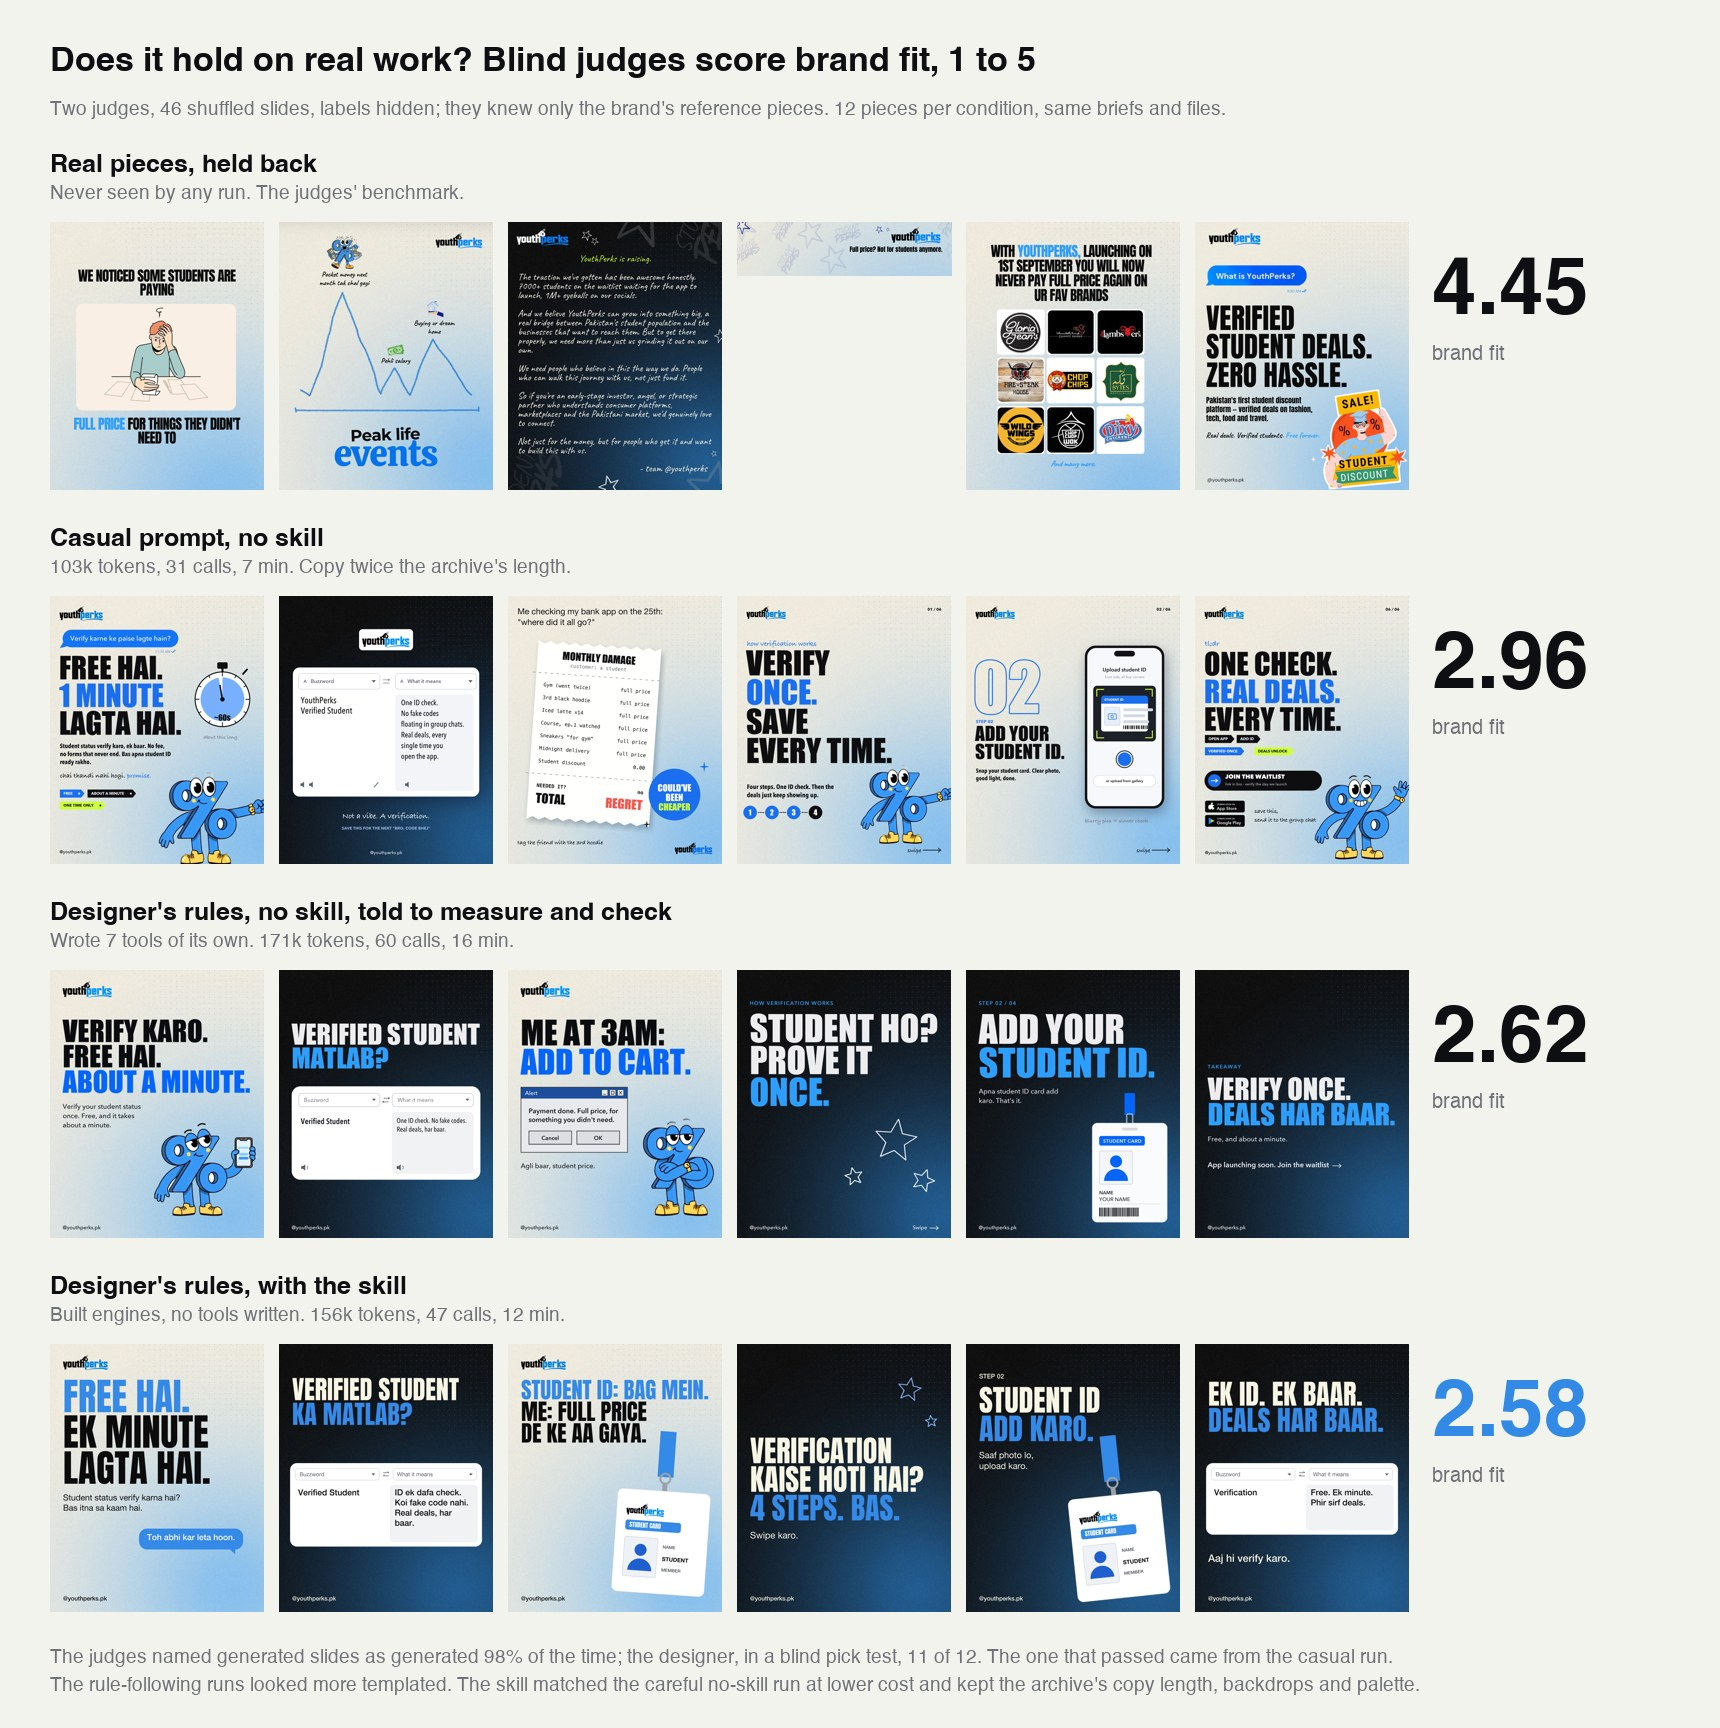
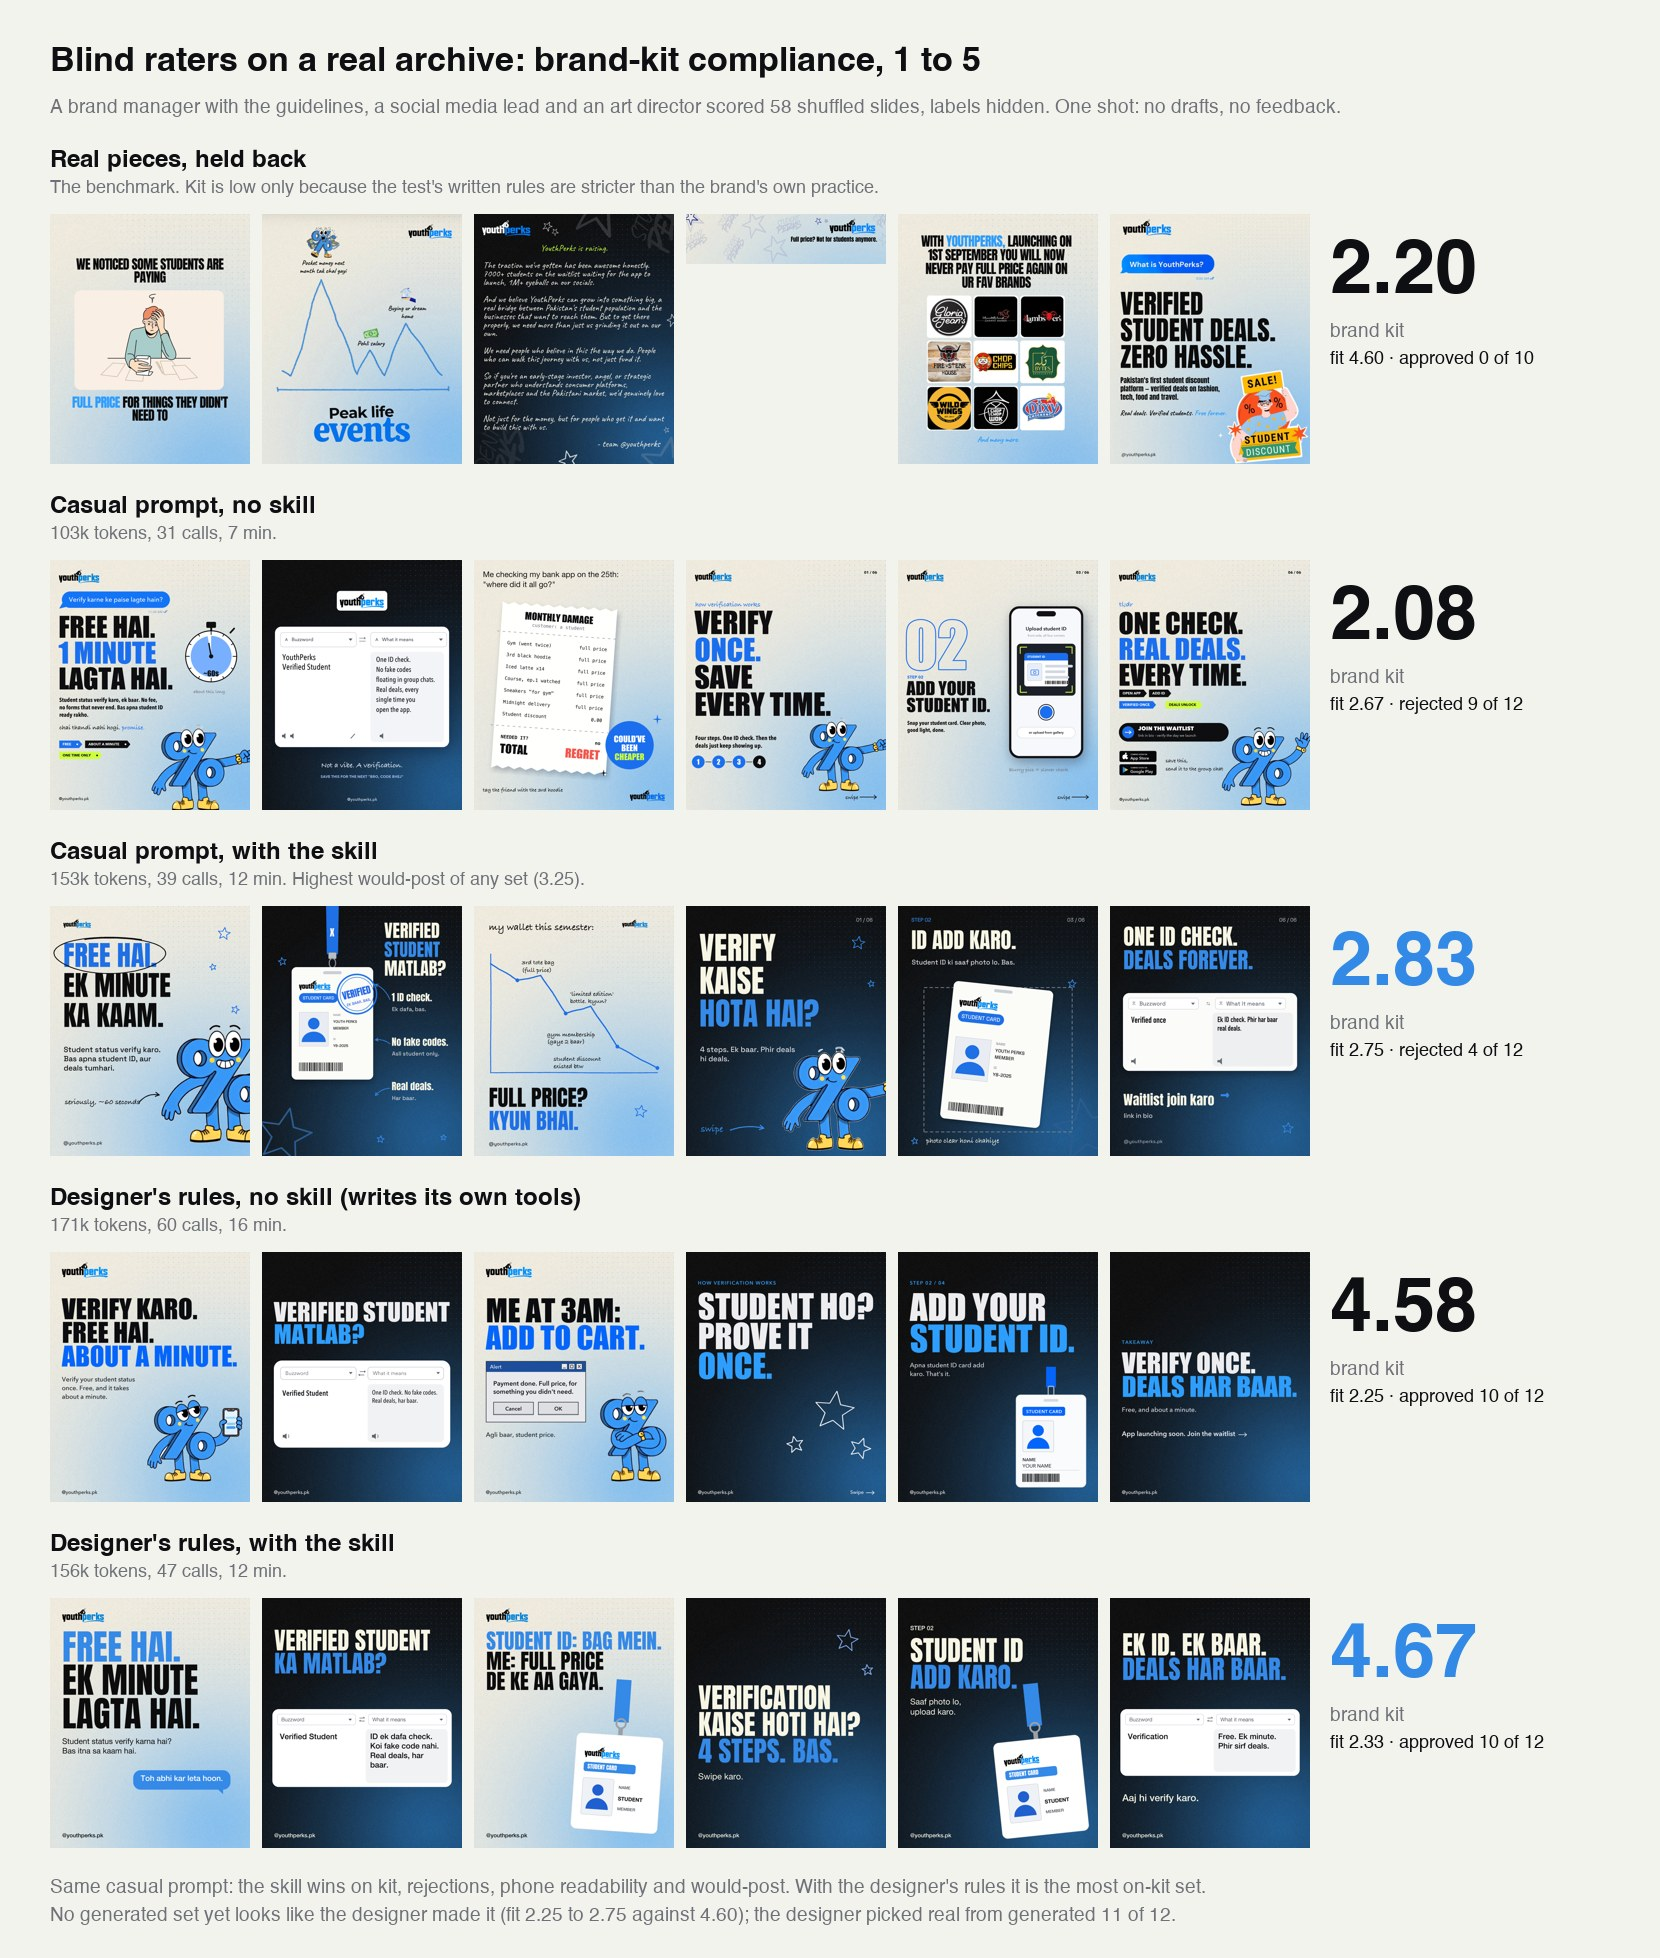
Real-world blind raters (brand manager with guidelines, social lead, art director); one-shot caveat; card updated
Same casual prompt: the skill beats no skill on brand kit (2.83 vs 2.08), rejections (4 vs 9), phone (3.58 vs 3.00) and
would-post (3.25, highest). With the designer's rules it is the most on-kit set (4.67, 10 of 12 approved). No set yet looks
like the designer made it. All runs were one shot, with no designer feedback.

diff --git a/README.md b/README.md
@@ -9,7 +9,7 @@
 
 <table>
 <tr>
-<td align="center" width="33%"><b>9 to 42% fewer tokens</b><br><sub>than an agent that builds its own tools for the same measuring and checking, across four rounds. On how the work looks, blind judges have not yet put it ahead of a good run without it.</sub></td>
+<td align="center" width="33%"><b>10 of 12 approved as is</b><br><sub>by a blind brand manager with the guidelines in hand (brand-kit 4.67 of 5), with 9 to 42% fewer tokens than an agent building its own tools for the same checks. It does not yet look like the designer made it.</sub></td>
 <td align="center" width="33%"><b>0.95</b><br><sub>of the real pieces held back follow the habits it measured from 28 others: the 4:5 canvas, the light and dark grounds, the one accent. Nobody told it.</sub></td>
 <td align="center" width="33%"><b>2.1k tokens</b><br><sub>to carry the whole skill. A kit loads only when the job needs it; pasted as text it would be 121k. Engines return a 0.4k report where looking at the pieces costs 58k.</sub></td>
 </tr>
@@ -73,22 +73,27 @@ Every card is an engine run on real material, public-domain or a real brand arch
 
 ## The skill against no skill
 
-The final test follows [a written protocol](docs/TEST_SCENARIO.md): one real brand archive (kept anonymous; 28 pieces teach, the rest are held back), 12 pieces per condition (six posts and a six-slide carousel), every run a fresh agent, and two blind judges who know only the brand's reference pieces and score a shuffled mix of the held-back real pieces and every generated slide.
+The test follows [a written protocol](docs/TEST_SCENARIO.md): one real brand archive (28 pieces teach, the rest are held back), the same 12 pieces per run (six posts and a six-slide carousel), every run a fresh agent, and blind raters who see a shuffled mix of the held-back real pieces and every generated slide, labels hidden. The raters do real jobs: a **brand manager** approving posts with the brand guidelines in hand, a **social media lead** choosing this week's feed, and an **art director** asking whether the designer made it.
 
-![Blind judging on a real archive: held-back real pieces, a casual run without the skill, a designer's-rules run without it, and the same with the skill](assets/demo-real-archive.jpg)
+![Blind judging on a real archive: held-back real pieces against runs with and without the skill](assets/demo-real-archive.jpg)
 
-| | Casual prompt, no skill | Designer's rules, no skill, told to measure and check | **Designer's rules, with the skill** |
-|---|---|---|---|
-| Brand fit (1 to 5; the real pieces score 4.45) | **2.96** | 2.62 | 2.58 |
-| Quality (real pieces 3.50) | **3.08** | 2.58 | 2.50 |
-| Judged real (two model judges) | 2 of 24 | 0 of 24 | 0 of 24 |
-| Passed as real with the designer (blind pick test) | 1 of 2 | 0 of 2 | 0 of 2 |
-| Words per piece (the archive's median is 19) | 41 | 22 | **20** |
-| Ground from the supplied backdrop files, off-palette pixels | 12/12, 0.1% | 12/12, 0.0% | 12/12, 0.0% |
-| Tools it had to write itself | none | 7 | **none** |
-| Tokens, tool calls, time | 103k, 31, 7 min | 171k, 60, 16 min | 156k, 47, 12 min |
+| | Real pieces | Casual prompt, no skill | **Casual prompt, with the skill** | Designer's rules, no skill | **Designer's rules, with the skill** |
+|---|---|---|---|---|---|
+| Brand-kit compliance (brand manager, 1 to 5) | 2.20* | 2.08 | **2.83** | 4.58 | **4.67** |
+| Approved as is / rejected (of 12) | 0 / 4 of 10 | 0 / 9 | **0 / 4** | 10 / 0 | **10 / 0** |
+| Reads on a phone (social lead) | 2.70 | 3.00 | **3.58** | 4.17 | 4.08 |
+| Would post this week (social lead) | 3.00 | 2.83 | **3.25** | 2.92 | 2.83 |
+| Looks like the designer made it (art director) | 4.60 | 2.67 | **2.75** | 2.25 | 2.33 |
+| Taken for real (of 36 ratings) | 30 / 30 | 4 | 0 | 0 | 0 |
+| Tokens, tool calls, time | | 103k, 31, 7 min | 153k, 39, 12 min | 171k, 60, 16 min | 156k, 47, 12 min |
 
-**Plainly:** the skill does not make the work look more like the designer's than a good run without it. In this round the casual run scored highest and fooled the judges twice; the two runs that followed the designer's strict rules (one device per slide, a headline formula, uncluttered) came out more templated, and the judges said so ("the same few templates reused"). The skill matched the careful no-skill run on look at 9% fewer tokens, 22% fewer calls and 23% less time, with no tools of its own to write, and it was the only run that held the archive's copy length. Across four rounds it has used 9 to 42% fewer tokens than an agent building its own tools for the same checks. What it reliably does is keep the habits, backdrops, palette and voice on the archive, and check; what it does not yet do is beat a good designer's prompt on how the work looks.
+\* The real pieces score low on the kit because the test's written rules are stricter than the brand's own day-to-day practice.
+
+**Plainly:**
+- **Same prompt, with and without the skill:** with a casual prompt, the skill wins on brand-kit compliance (2.83 against 2.08), rejections (4 against 9), phone readability (3.58 against 3.00) and would-post (3.25, the highest of any set, real pieces included), and edges it on looking like the designer. It was taken for real less often.
+- **With the designer's rules:** the skill's run is the most on-kit of all (4.67) and had 10 of 12 approved as is, level with a careful run without the skill, at 9% fewer tokens, 22% fewer calls and 23% less time, with no tools of its own to write.
+- **What it does not do yet:** look like the designer made it. Every generated set sits far below the real pieces (2.25 to 2.75 against 4.60), and the designer, in a blind pick test, named 11 of 12 slides correctly.
+- **One shot, no iteration.** Every run was a single round: the designer never saw a draft, gave no feedback and asked for no revisions. In real use you review the first set and steer it, which is what the skill's questions and checks are built for. These are first drafts, a floor, not the result after a round of the designer's own direction.
 
 ## What's inside
 
@@ -121,7 +126,7 @@ Each real test found weaknesses in the skill itself. Each was fixed and logged i
 
 ## Honest limits
 
-- **On look the skill has not won.** In the final blind round (12 pieces per condition, two judges) a casual prompt without the skill scored highest; strict rules made both rule-following runs more templated. The skill matched the careful no-skill run at lower cost. Blind judges still tell generated slides from real ones (98%): too tidy, formulaic, the same polished mascot and props. Real work is blunter, messier, more varied.
+- **It does not yet look like the designer made it.** Blind raters put every generated set far below the real pieces on that, though the skill wins on brand-kit compliance, approvals, phone readability and would-post. All runs were one shot, with no designer feedback. Blind judges still tell generated slides from real ones (98%): too tidy, formulaic, the same polished mascot and props. Real work is blunter, messier, more varied.
 - **The designer can tell.** In a blind pick test the designer named 11 of 12 slides correctly (92%; 50% would mean they can't tell) and never mistook their own work for the AI's. The one slide that passed came from the casual run without the skill. The habit score passes every good run, so it can't rank good work; the pick test (`pick_test.py`) and blind judges do.
 - **Small samples.** Six slides a run, one to two judges, and the judges are models.
 - **The device finder** finds stickers, badges, mascots and ID cards; it misses UI-style devices such as chat bubbles. A near-match font is a near match, and small body text gets a shortlist of three.

diff --git a/nazar-voiceprint/LESSONS.md b/nazar-voiceprint/LESSONS.md
@@ -48,3 +48,4 @@ Format: date, what happened, evidence, change made. Generic on purpose: no clien
 - 2026-11-16 · Final round, written protocol · 12 pieces per condition, two blind judges. Brand fit: real 4.45, casual no skill 2.96, designer's rules no skill 2.62, designer's rules with the skill 2.58. Strict rules (one device per slide, a headline formula, uncluttered) made both rule-following runs more templated; the casual run scored highest and was judged real twice. The skill matched the careful no-skill run at 9% fewer tokens, 22% fewer calls, 23% less time, and alone held the archive's copy length (20 against 19 words; casual 41). · Next: rules that describe the archive's range, not one formula; variety across a set; and a human pick test.
 - 2026-11-16 · Human pick test · The designer named 11 of 12 correctly (92%) and never mistook their own work; the one generated slide that passed was from the casual no-skill run. Agrees with the model judges: rule-following runs look more templated. · README reports it; next lever is rules that describe the archive's range, and variety.
 - 2026-11-16 · Why the skill lost, and the four fixes · Both rule-following runs looked templated; the skill's own steps rewarded consistency (nearest, clutter, craft pass) and nothing rewarded variety; devices were redrawn ("crude fake dialog boxes"). · `learn` now writes the archive's RANGE (alignment shares, lines per piece, how often an accent or device appears, density) instead of one formula, and cuts the brand's REAL reusable elements pixel-exact from its own pieces (`elements/`, recurring identically in 2+ pieces) to place as is; `check` adds a set VARIETY check (the set against the archive's spread, and near-identical templates); clutter is advisory.
+- 2026-11-16 · Real-world raters · Re-judged blind by a brand manager (with the guidelines), a social media lead and an art director. With the same casual prompt the improved skill beat no skill on brand kit (2.83 vs 2.08), rejections (4 vs 9), phone (3.58 vs 3.00) and would-post (3.25, highest of all); with the designer's rules the skill's run was the most on-kit (4.67) with 10 of 12 approved. No run looks like the designer (2.25 to 2.75 vs 4.60). All runs one shot. · Next: the brand manager's top faults (handle placement, extra or non-kit devices, logo on dark) as checks; a feedback round in the protocol.

diff --git a/docs/CASE_STUDY.md b/docs/CASE_STUDY.md
@@ -98,3 +98,19 @@ A skill is cheap to carry and its engines are cheap to use. This is the design, 
 The casual run scored highest. Both runs that followed the designer's strict rules looked more templated; the art-director judge named "outline step numerals, a STEP 0X kicker over a two-tone stacked headline, a mascot dropped in to fill space, crude dialog boxes". The skill's step 0 asked two questions (backdrop per slide type, what never appears), both already answered in the rules file; that is now fixed.
 
 **The designer's blind pick test.** 12 slides (six real held back, two from each condition), shuffled. The designer named 11 of 12 correctly (92%) and never took their own work for generated. The one generated slide that passed as real came from the casual run without the skill; none from the two rule-following runs did.
+
+## Real-world raters (all runs re-judged together)
+
+The designer felt the skill's runs were better on the brand kit than the art-director scores showed, so every slide (10 real held back, 12 from each of four runs) was re-judged blind by raters doing real jobs: a brand manager with the guidelines, a social media lead choosing the week's feed, and an art director.
+
+| | Real | Casual, no skill | Casual, with the skill | Rules, no skill | Rules, with the skill |
+|---|---|---|---|---|---|
+| Brand-kit compliance | 2.20 | 2.08 | 2.83 | 4.58 | 4.67 |
+| Approved as is / rejected | 0 / 4 of 10 | 0 / 9 | 0 / 4 | 10 / 0 | 10 / 0 |
+| Reads on a phone | 2.70 | 3.00 | 3.58 | 4.17 | 4.08 |
+| Would post this week | 3.00 | 2.83 | 3.25 | 2.92 | 2.83 |
+| Looks like the designer | 4.60 | 2.67 | 2.75 | 2.25 | 2.33 |
+| Quality (art director) | 3.70 | 3.00 | 2.83 | 2.58 | 2.42 |
+| Taken for real (of 36) | 30/30 | 4 | 0 | 0 | 0 |
+
+The brand manager's most common problems: the handle missing or not bottom-left; several devices on one slide, or devices the kit doesn't have (step numerals, a padlock, a stopwatch, a receipt, tickets, a seal); the logo off top-left or on dark slides; unverified time claims ("about a minute"). Every run was one shot: no drafts shown, no feedback, no revisions.
